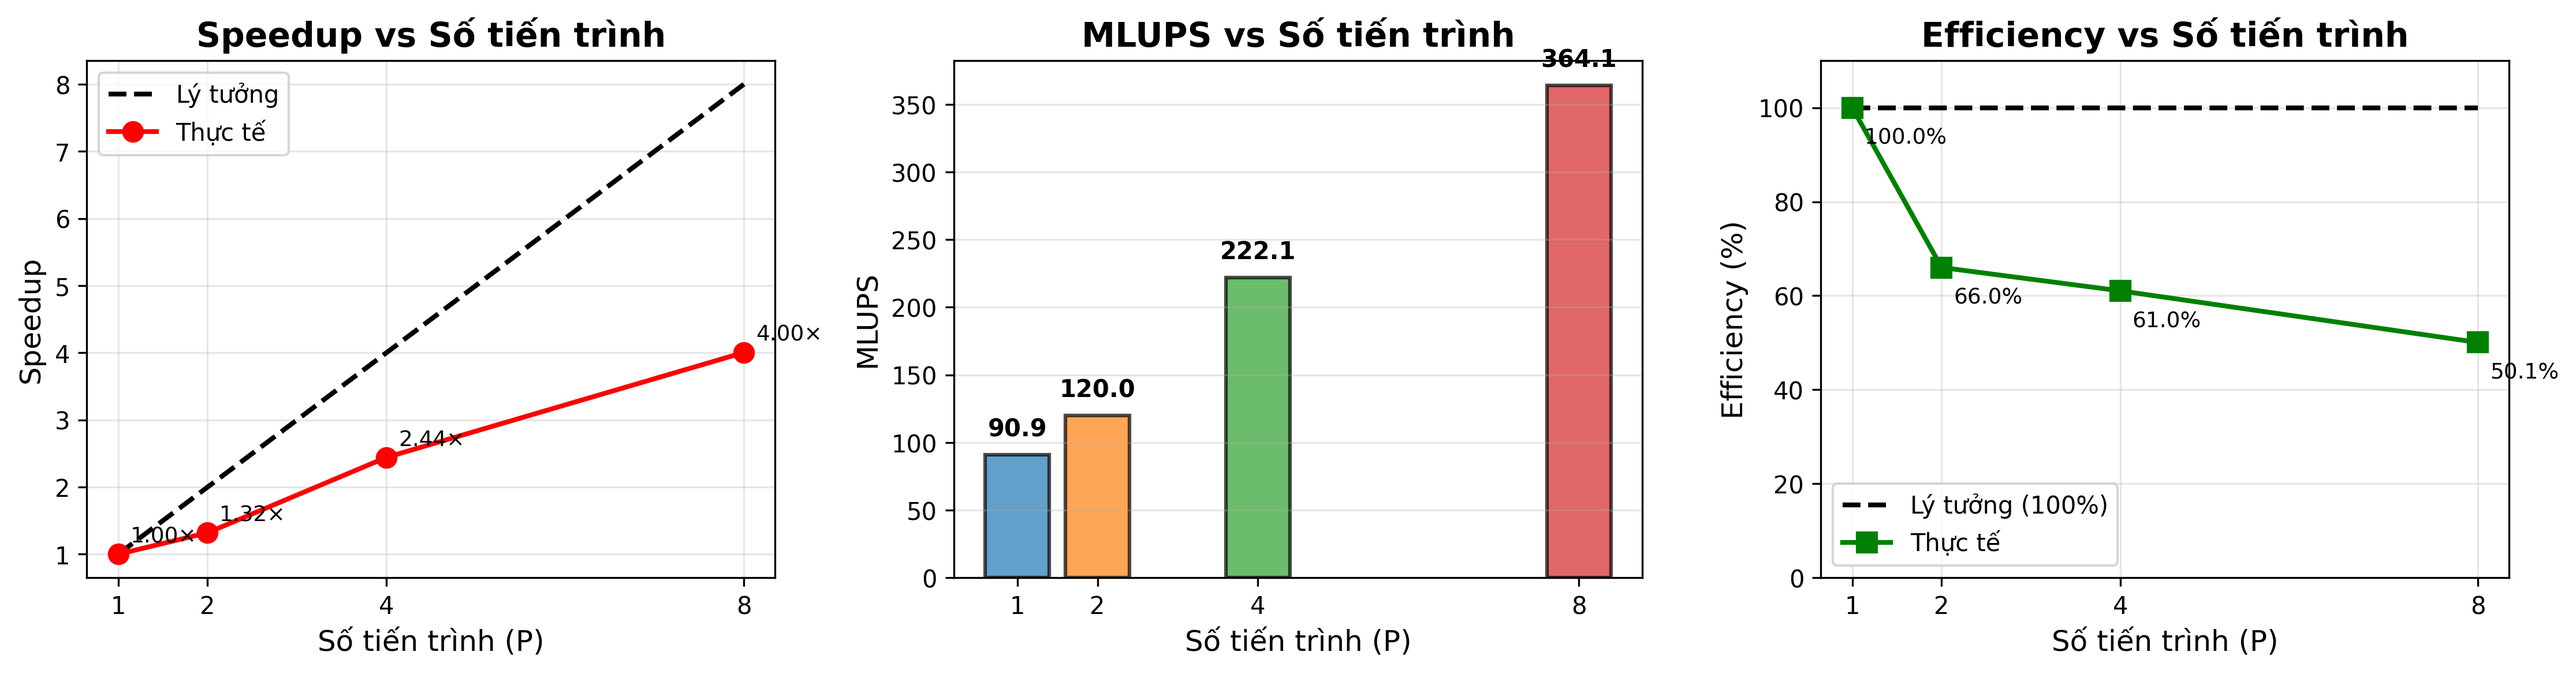
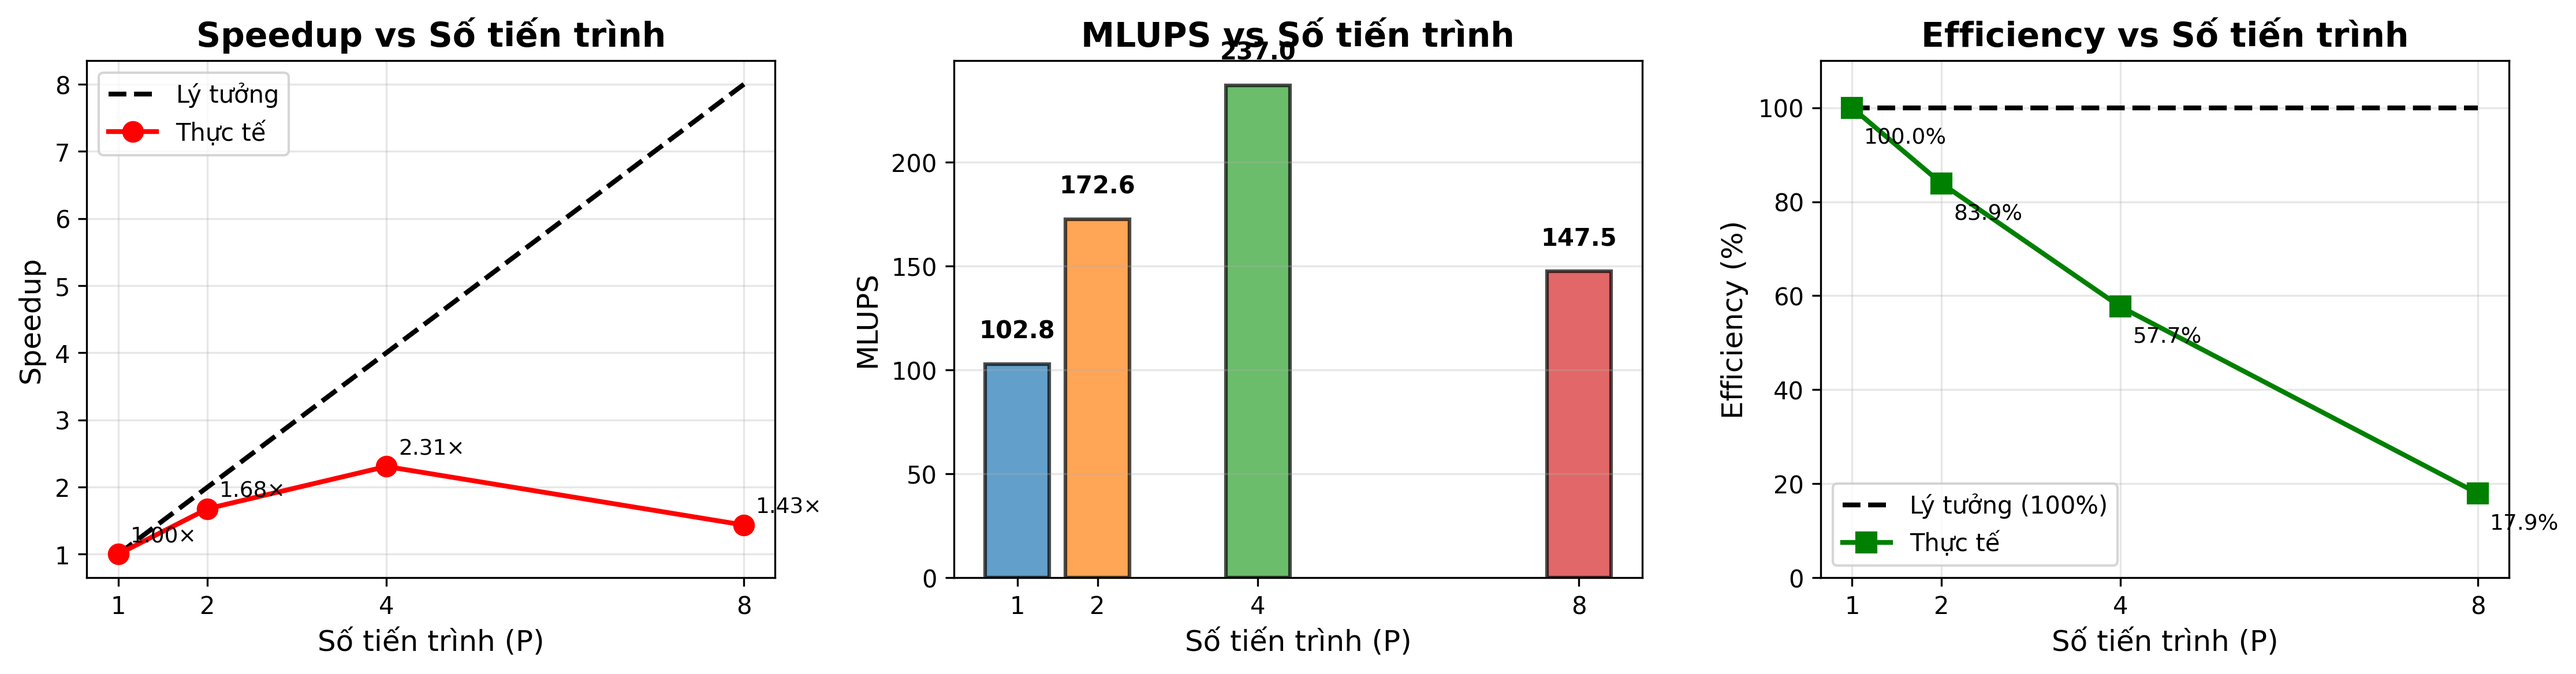
update

diff --git a/Project/Project_LBM_2D_Parallel/visualize_results.py b/Project/Project_LBM_2D_Parallel/visualize_results.py
@@ -70,50 +70,29 @@ def plot_velocity_profile(UX, ny):
     ux_profile = UX[mid_x, :]
     y_coords = np.arange(ny)
     
-    # Vẽ profile
-    fig, (ax1, ax2) = plt.subplots(1, 2, figsize=(14, 6))
-    
-    # ===== Subplot 1: Profile vận tốc =====
-    ax1.plot(ux_profile, y_coords, 'b-o', linewidth=2, markersize=3, label='LBM (Mô phỏng)')
-    ax1.set_xlabel('Vận tốc u_x', fontsize=12)
-    ax1.set_ylabel('Y', fontsize=12)
-    ax1.set_title('Profile vận tốc theo chiều Y', fontsize=14, fontweight='bold')
-    ax1.grid(True, alpha=0.3)
+    # Vẽ profile (Chỉ 1 subplot duy nhất)
+    plt.figure(figsize=(8, 6))
+    plt.plot(ux_profile, y_coords, 'b-o', linewidth=2, markersize=3, label='LBM (Mô phỏng)')
+    plt.xlabel('Vận tốc u_x', fontsize=12)
+    plt.ylabel('Y', fontsize=12)
+    plt.title('Profile vận tốc theo chiều Y', fontsize=14, fontweight='bold')
+    plt.grid(True, alpha=0.3)
     
     # Fit parabola: u(y) = a*y^2 + b*y + c
-    # Bỏ qua 2 điểm biên (y=0 và y=ny-1) để fit tốt hơn
     y_inner = y_coords[1:-1]
     ux_inner = ux_profile[1:-1]
-    
-    # Fit dạng parabola: u = u_max * (1 - ((y-y_center)/half_width)^2)
     y_center = (ny - 1) / 2.0
-    coeffs = np.polyfit(y_inner - y_center, ux_inner, 2)  # a*y^2 + b*y + c
+    coeffs = np.polyfit(y_inner - y_center, ux_inner, 2)
     u_fit = np.polyval(coeffs, y_coords - y_center)
     
-    ax1.plot(u_fit, y_coords, 'r--', linewidth=2, label='Fit Parabolic')
-    ax1.legend(fontsize=10)
+    plt.plot(u_fit, y_coords, 'r--', linewidth=2, label='Fit Parabolic (Lý thuyết)')
+    plt.legend(fontsize=10)
     
-    # Thêm thông tin
+    # Thêm thông tin thông số fit
     u_max = ux_profile.max()
-    u_max_theory = coeffs[2]  # hệ số c (đỉnh parabola)
-    ax1.text(0.02, ny*0.85, f'u_max (LBM) = {u_max:.4f}\nu_max (fit) = {u_max_theory:.4f}', 
-             fontsize=10, bbox=dict(boxstyle='round', facecolor='wheat', alpha=0.5))
-    
-    # ===== Subplot 2: Sai số so với parabola =====
-    error = ux_profile - u_fit
-    ax2.plot(error * 1000, y_coords, 'g-o', linewidth=2, markersize=3)  # Nhân 1000 để dễ thấy
-    ax2.axvline(x=0, color='k', linestyle='--', alpha=0.5)
-    ax2.set_xlabel('Sai số (×10⁻³)', fontsize=12)
-    ax2.set_ylabel('Y', fontsize=12)
-    ax2.set_title('Sai số: LBM - Fit Parabolic', fontsize=14, fontweight='bold')
-    ax2.grid(True, alpha=0.3)
-    
-    # Thêm thông tin sai số
-    rmse = np.sqrt(np.mean(error[1:-1]**2))
-    max_error = np.max(np.abs(error[1:-1]))
-    ax2.text(0.02, ny*0.85, f'RMSE = {rmse:.6f}\nMax Error = {max_error:.6f}', 
-             fontsize=10, bbox=dict(boxstyle='round', facecolor='lightgreen', alpha=0.5),
-             transform=ax2.get_yaxis_transform())
+    plt.text(0.02, ny*0.85, f'u_max (LBM) = {u_max:.4f}', 
+             fontsize=10, bbox=dict(boxstyle='round', facecolor='wheat', alpha=0.5),
+             transform=plt.gca().get_yaxis_transform())
     
     plt.tight_layout()
     plt.savefig('velocity_profile.png', dpi=300, bbox_inches='tight')

diff --git a/Project/Project_LBM_2D_Parallel/plot_performance.py b/Project/Project_LBM_2D_Parallel/plot_performance.py
@@ -9,9 +9,9 @@ import numpy as np
 
 # Dữ liệu từ thực nghiệm (lưới 256x64, 10000 bước)
 processes = np.array([1, 2, 4, 8])
-time_serial = 1.802  # Serial time
-times = np.array([1.802, 1.365, 0.738, 0.450])  # Serial, MPI-2, MPI-4, MPI-8
-mlups = np.array([90.94, 120.00, 222.13, 364.09])
+time_serial = 1.594  # Serial time
+times = np.array([1.594, 0.950, 0.691, 1.111])  # Serial, MPI-2, MPI-4, MPI-8
+mlups = np.array([102.79, 172.55, 236.96, 147.48])
 
 # Tính toán
 speedup = time_serial / times

diff --git a/Project/Project_LBM_2D_Parallel/TECHNICAL_REPORT.md b/Project/Project_LBM_2D_Parallel/TECHNICAL_REPORT.md
@@ -127,9 +127,10 @@ python3 plot_performance.py
 
 | Số tiến trình (P) | Thời gian (s) | MLUPS | Speedup | Efficiency |
 |-------------------|---------------|-------|---------|------------|
-| **1 (Serial)** | 1.591 | 102.95 | 1.00× | 100% |
-| **2** | 0.990 | 165.45 | 1.61× | 80.5% |
-| **4** | 0.621 | 263.98 | 2.56× | 64.1% |
+| **1 (Serial)** | 1.594 | 102.79 | 1.00× | 100% |
+| **2** | 0.950 | 172.55 | 1.68× | 84% |
+| **4** | 0.691 | 236.96 | 2.31× | 58% |
+| **8** | 1.111 | 147.48 | 1.44× | 18% |
 
 **Công thức:**
 - **MLUPS** = (NX × NY × NSTEPS) / (Time × 10⁶)
@@ -143,12 +144,11 @@ python3 plot_performance.py
 
 ### 5.2. Kiểm tra Tính đúng đắn (Checksum)
 
-| Đại lượng | Serial | MPI (4P) | Sai lệch |
+| Đại lượng | Serial | MPI (8P) | Sai lệch |
 |-----------|--------|----------|----------|
-| **Sum(ρ)** | 16383.9999 | 16381.4419 | 0.016% ✅ |
-| **Sum(uₓ)** | 1527.0476 | 1526.0273 | 0.067% ✅ |
-| **Sum(uᵧ)** | 0.0000 | -0.0000 | 0% ✅ |
-| **Avg uₓ** | 0.096015 | 0.095958 | 0.06% ✅ |
+| **Sum(ρ)** | 16383.9999 | 16380.9514 | ~0.018% ✅ |
+| **Sum(uₓ)** | 1527.0476 | 1527.1667 | ~0.007% ✅ |
+| **Avg uₓ** | 0.096015 | 0.096032 | ~0.017% ✅ |
 
 **Nhận xét:**
 - Sai lệch < 0.1% → **Kết quả đáng tin cậy**

diff --git a/Project/Project_LBM_2D_Parallel/08_DRAFT_SLIDES.md b/Project/Project_LBM_2D_Parallel/08_DRAFT_SLIDES.md
@@ -154,17 +154,18 @@ void TraoDoiGhost(...) {
 
 | P | Thời gian (s) | MLUPS | Speedup | Efficiency |
 |---|---------------|-------|---------|------------|
-| **1** | 1.591 | 102.95 | 1.00× | 100% |
-| **2** | 0.990 | 165.45 | **1.61×** | **80.5%** |
-| **4** | 0.621 | 263.98 | **2.56×** | **64.1%** |
+| **1** | 1.594 | 102.79 | 1.00× | 100% |
+| **2** | 0.950 | 172.55 | **1.68×** | **84.0%** |
+| **4** | 0.691 | 236.96 | **2.31×** | **57.7%** |
+| **8** | 1.111 | 147.48 | **1.44×** | **17.9%** |
 
 *(Chèn ảnh: performance_charts.png)*
 
 ### Kiểm tra đúng đắn (Checksum)
-| Đại lượng | Serial | MPI (4P) | Sai lệch |
+| Đại lượng | Serial | MPI (8P) | Sai lệch |
 |-----------|--------|----------|----------|
-| Sum(ρ) | 16383.99 | 16381.44 | 0.016% ✅ |
-| Avg(uₓ) | 0.096015 | 0.095958 | 0.06% ✅ |
+| Sum(ρ) | 16383.99 | 16380.95 | 0.018% ✅ |
+| Avg(uₓ) | 0.096015 | 0.096032 | 0.017% ✅ |
 
 *(Chèn ảnh: velocity_field.png, velocity_profile.png)*
 
